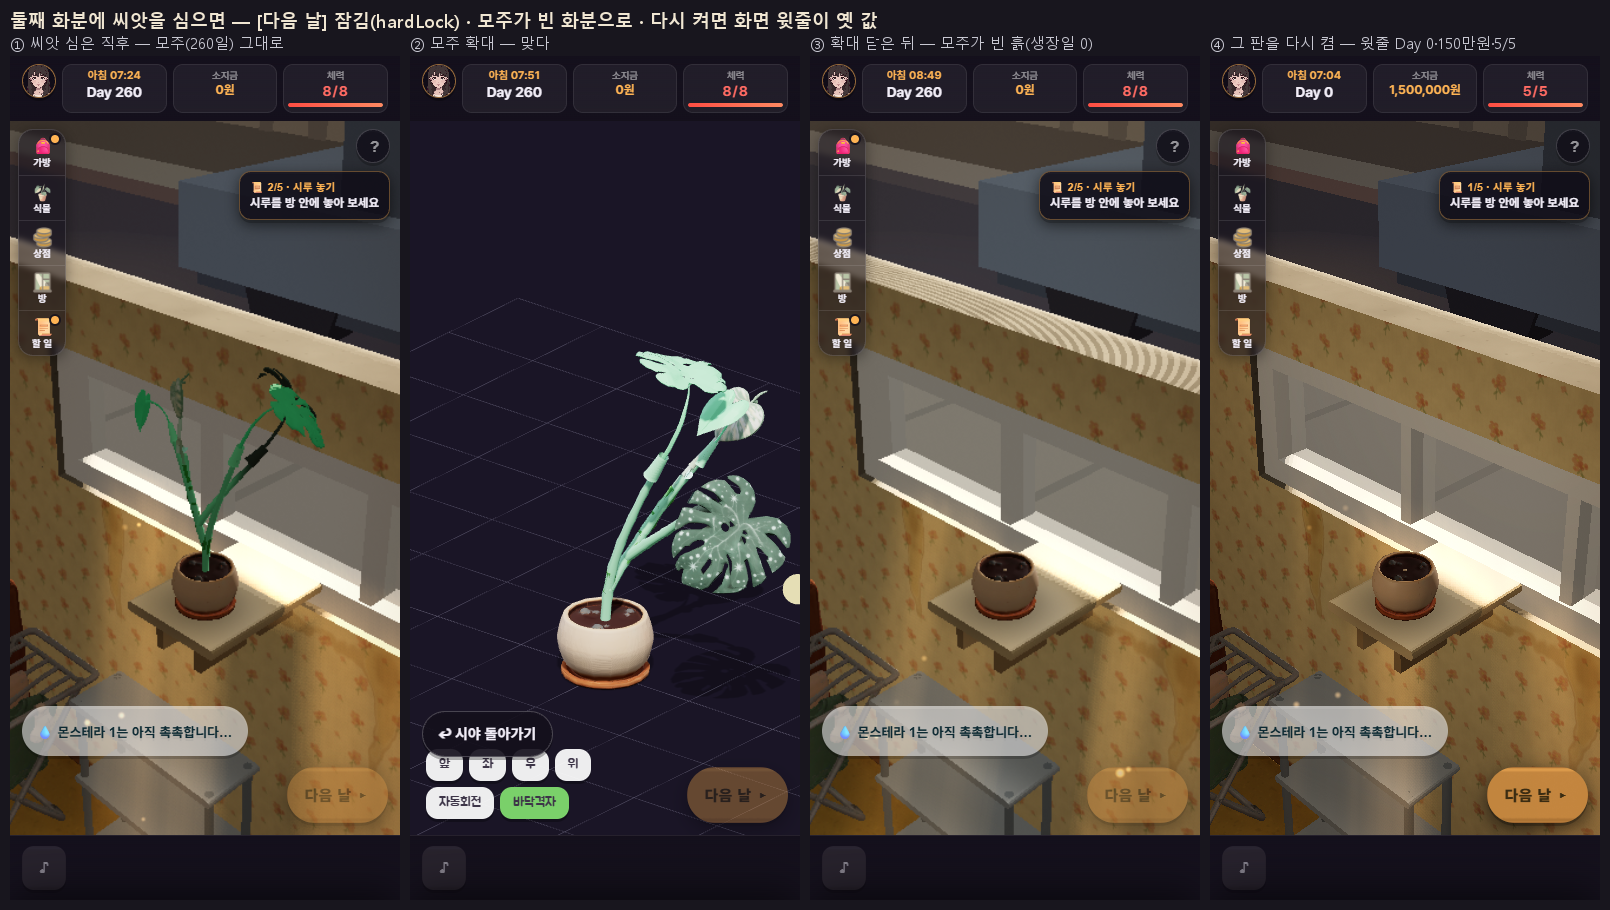
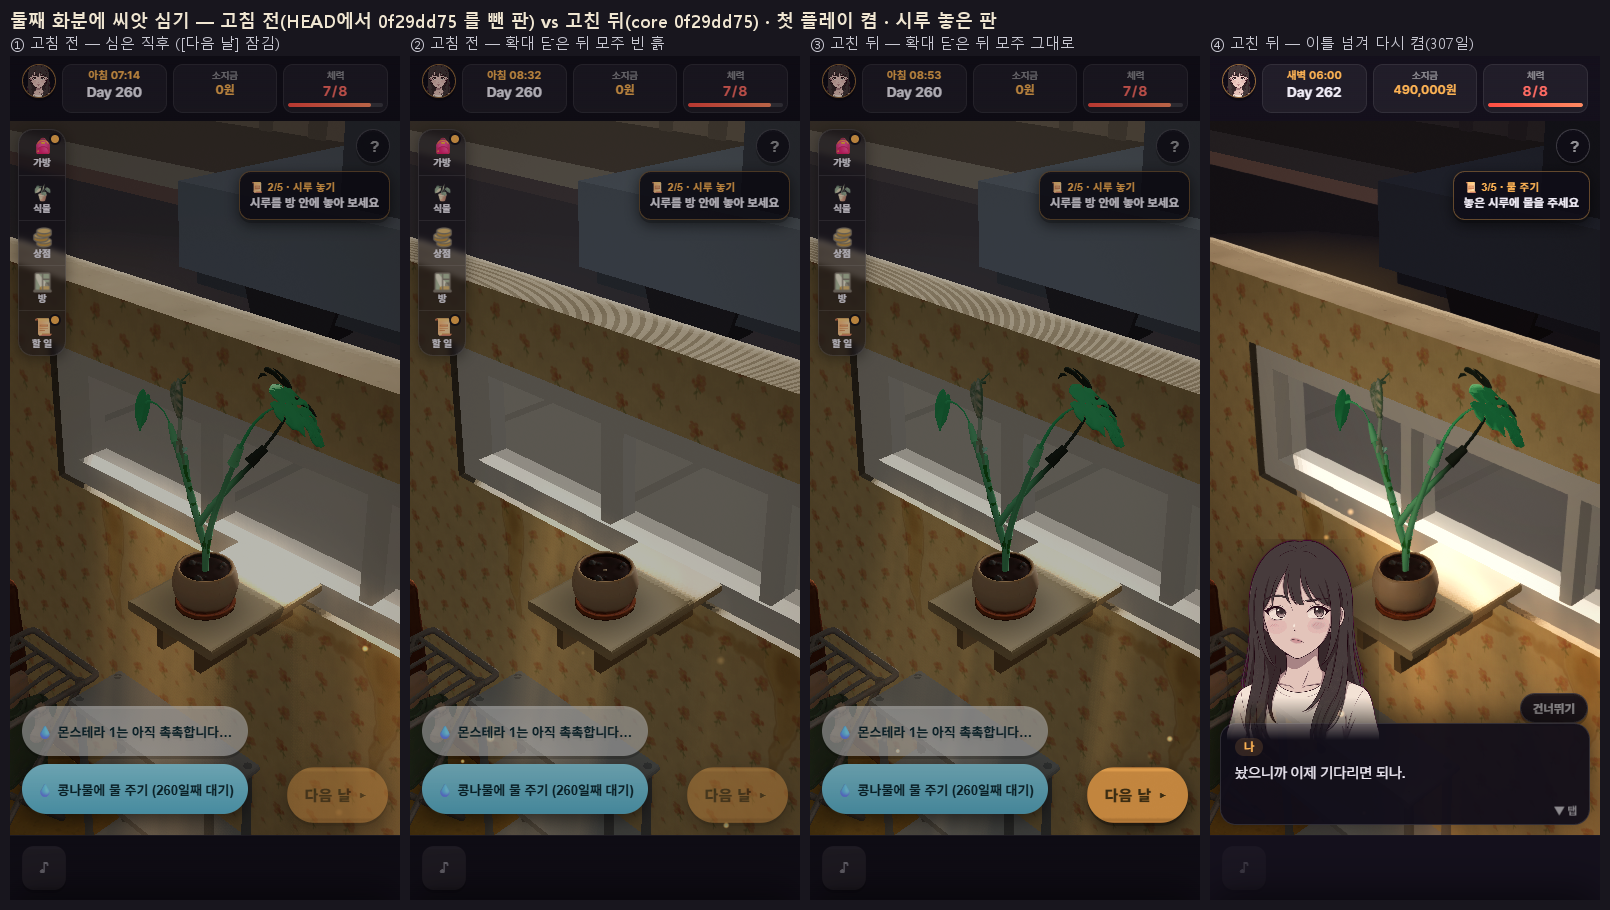
[leaf] core 0f29dd75 걸어서 확인(심기·이틀·다시 켜기 OK) · 고침 전 대조(9341)로 잠김이 내 손질 탓 아님 · 정정: '윗줄 Day 0'은 내 손질(첫 플레이 끔) 탓 · 갈래③ 판 뒤 방에 그루가 남음 · 다시 켜고 하루면 무늬 장면 재생
- 자 셋을 '첫 플레이 그대로 · 시루를 방에 놓기'로 바꿈(끄면 drawJourney 가 윗줄을 안 씀)
- 고침 전 대조: HEAD 에서 0f29dd75 만 뺀 네 파일을 덮어 내주는 서버 — 첫 플레이 켬에서도 hardLock·모주 305→0
- 고친 뒤: 안 잠김 · 꽂힌 그루 __main__ · 다시 켜도 첫 화분 307일·장부 그대로·잎5/무늬3·자를 마디 19
- 갈래③: 판 직후·하루 뒤 S.pots 0 인데 방에 pot_01 이 선다(다시 켜야 빔) · 확대는 손잡이로만 열림
- 다시 켜고 하루: _varieLuckySaid·대사 본 것이 세이브에 없어 무늬 알림·장면이 또 나옴
- 자: _walk_sellmother 새로

diff --git a/docs/handoff/leaf-index.md b/docs/handoff/leaf-index.md
@@ -158,11 +158,27 @@ phone_pixel_table.md 의 모든 px      ⚠ 못 쓰는 것은 아니나 «환산
 | 스택 | `shop.js:1723 varieLeavesNeededFor` ← `game.html:8363`(drawShop 이사 안내) ← `:11459`(draw) ← `:14756`(sowEmptyPot) ← `:11047`(심기 단추) ← `:11558`(guard) |
 | 까닭 [코드 읽음] | drawShop 이 `io.growth.leafStats()` = **지금 꽂힌 그루**의 잎 수를 읽는다(8311). 심기가 새 그루를 꽂고 안 되돌린다(state.js `plantMonsteraSeed` → `g.select`) ⇒ 잎 0장 씨앗의 수로 이사 안내를 셈 → 던짐 → 심기 단추의 guard 가 «못 고치는 고장»으로 잠근다 |
 | 모주 그림 | 그 뒤 방을 다시 맞추면(확대창 닫기 = syncRoom) 첫 화분 생장일 305 → **0** — 260일 무늬 그루가 **빈 흙 화분**으로 그려진다. 확대창은 맞다(첫 화분을 꽂고 연다) |
-| 다시 켜면 | 잠김은 풀린다. 그런데 켤 때 그리기가 같은 줄에서 멈춰(`[부팅 그리기]`) **윗줄이 Day 0 · 1,500,000원 · 체력 5/5**(켤 때 기본값)로 남고, 모주는 여전히 빈 화분. [다음 날]을 누르면 하루(260 → 261)는 가고 그 자리에서 **다시 잠긴다** |
+| 다시 켜면 | 잠김은 풀린다. 모주는 여전히 빈 화분. [다음 날]을 누르면 하루(260 → 261)는 가고 그 자리에서 **다시 잠긴다** |
 
-⇒ 갈래 ①의 «굴림 등급이 방=확대인가»는 이 잠김을 core 가 고친 뒤에 잰다. 하루 넘긴 뒤 «마지막 화분이 꽂힌 채» 남는 일(loop.js §nextDay 끝)도 같은 뿌리라 그때 같이 본다 — 지금은 잠겨서 못 걸었다.
+⛔ **물린 것(같은 날)**: 처음 표에 «다시 켜면 윗줄이 Day 0 · 1,500,000원 · 5/5»를 적었다 — **내 손질 탓이었다.** 판마다 첫 플레이를 끄고(`enabled=false`) 있었는데, 윗줄(돈·날짜)을 쓰는 `drawJourney` 가 첫 플레이가 꺼지면 바로 돌아간다. 고장 아님. ⇒ 세 자(`_walk_twopots`·`_walk_sellmother`·`_check_reload_gate`)를 «첫 플레이는 그대로 · 시루를 방에 놓기»(Day 0 에 사람이 하는 일)로 바꿨다.
+✔ 그래도 잠김·빈 화분이 내 손질 탓이 아님을 «같은 때 대조»로 쟀다: 고침 전 판(HEAD 에서 core 0f29dd75 만 뺀 네 파일을 덮어 내주는 대조 서버 9341)에서 첫 플레이 켬 + 시루 놓은 판 → 심자마자 `hardLock=1` · 확대 닫으면 모주 305 → 0. 그대로 난다.
+✔ core 0f29dd75(턴 밖에서는 늘 첫 화분을 꽂음 · 잎 0장에 안 던짐) 뒤 같은 판(9340): 심어도 안 잠김 · 꽂힌 그루 `__main__` · 모주 305 그대로 · 이틀 넘김 · 다시 켜도 안 잠김 — 첫 화분 생장일 307 · 장부 136·256·496 그대로 · leafStats 잎 5·무늬 3 · 자를 마디 19.
 ⚠ 내 자가 한 번 헛경고: 「첫 화분 장부에 남의 잎 번호」 — 이미 심은 세이브에서는 시작 때 꽂힌 그루가 씨앗이라 «첫 화분 잎»을 0장으로 읽었다. 장부는 안 바뀌었다(136·256·496 그대로). 자를 고쳤다.
-그림: `img/leaf1008/seed_sow_lock.png`
+그림: `img/leaf1008/seed_sow_lock.png`(고침 전 둘 · 고친 뒤 둘)
+
+### ⛔ 10-08 오후 — 갈래 ③ 모주를 판 뒤 / 그리고 «다시 켜고 하루»에 무늬 장면이 또 나온다
+
+판: 반지하 창턱 260일 세이브 · 첫 플레이 켬 · 시루를 책상에 놓음 → [몬스테라 내놓기] 두 번(되묻기) → 연락을 «오늘»로 당김(세운 손질) → [상점] 중고 칸 [거래하기]. `_walk_sellmother.mjs`.
+
+| 잰 것 | 값 |
+|---|---|
+| 판 직후 · `__redraw` 뒤 · 하루 넘긴 뒤 | `S.pots` 0 · 돈 +3,307,500 — **그런데 방엔 pot_01(생장일 305)이 그대로 선다.** 방이 쥔 잎도 판 그루 것(null 이어야). 다시 켜야 빈다 |
+| 확대창 | 판 뒤 열면 판 그루(무늬 셋). 다시 켜고 열면 **없는 어린 그루**(잎 3). ⚠ 둘 다 `__byeotZoom.open` 손잡이로만 열린다 — 사람 손 길([식물] 장 🔍 · 방에서 첫 화분 누르기)은 화분이 없으면 안 선다. 갈림만 적는다 |
+| 다시 켜고 하루(팔지 않은 판도) | 기록에 «✨ 새로 난 잎에 무늬가 섞였습니다 / ✨ 무늬 잎이 두 장이 됐습니다»가 **또** 찍히고(처음엔 36·91일), 장면 «어어. 잠깐만. 무늬가 섞였어 · …어디? 그냥 말린 잎인데 · 지금은 안 보여»가 260일 그루에서 다시 나온다 |
+| 까닭 [코드 읽음] | `S._varieLuckySaid`(이미 말한 잎)가 세이브 칸에 없다(save.js 칸 목록 · 세이브 JSON 에도 없음) · 대사 «본 것»(`createDialogue()`)도 켤 때마다 빈 Set 이다 ⇒ 켤 때마다 잊고 다음 하루에 다시 말한다 |
+
+⚠ 같은 대사 판에 «…잘 부탁해 · 가방 안은 자리가 아니야» 같은 앞 장면도 나왔다 — 세운 세이브가 이야기를 한 번도 안 튼 판이라 그 탓일 수 있어 **안 센다.** 무늬 장면은 기록 줄이 원래 판에 있었던 것(36·91일)이 다시 찍혔으므로 센다.
+그림: `img/leaf1008/sell_mother_ghost.png`
 
 ### ⛔⛔ 물린 것 — **아래 09-07 「무늬 건 닫혔다」의 «화면 쪽»이 틀렸다** (2026-10-08)
 
